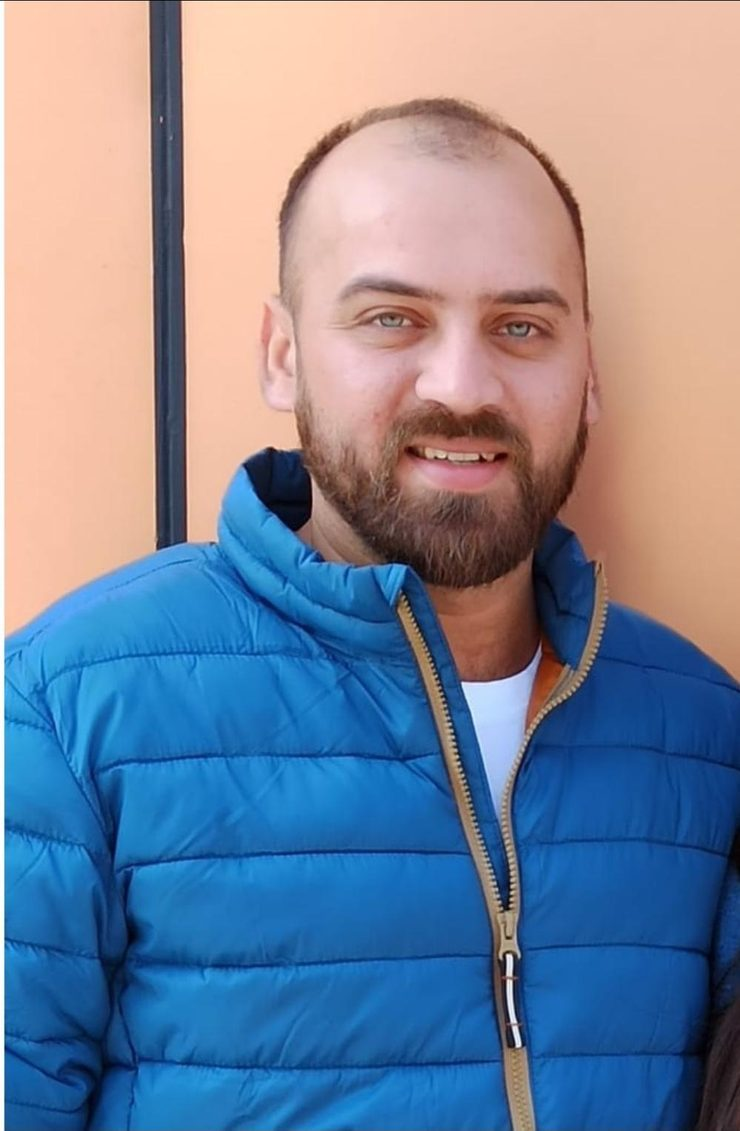
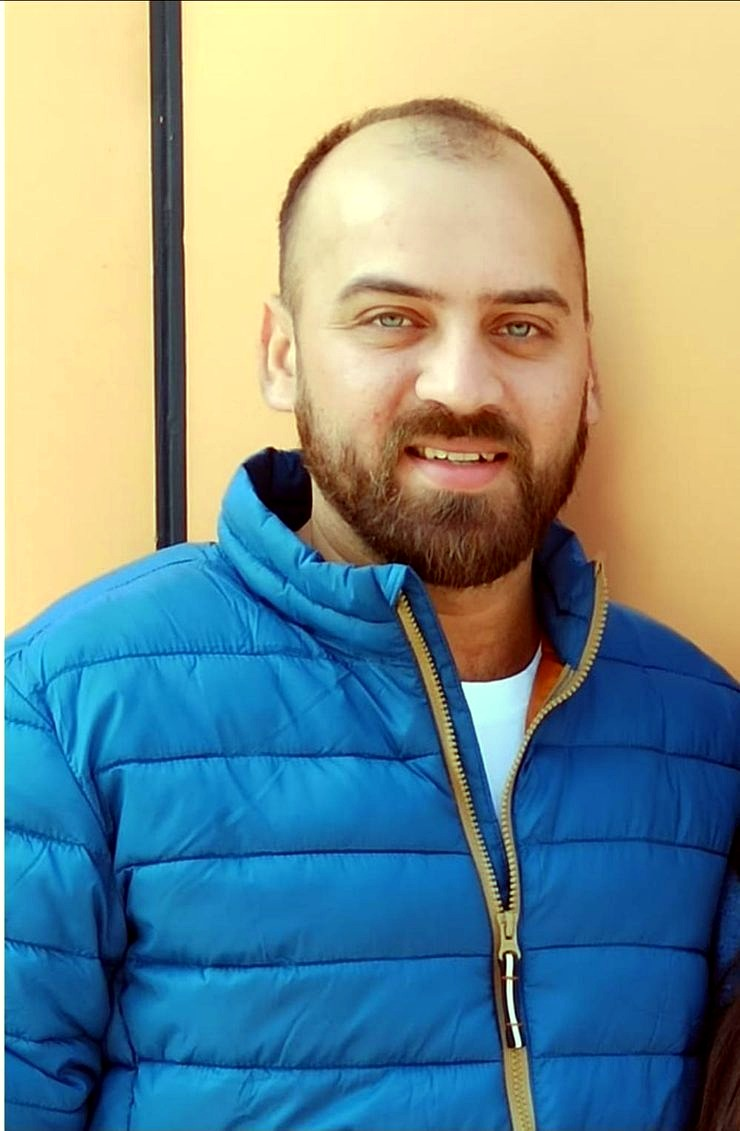
Client fixes: 'selected works' count label (honest, no invented 900+); graded team photos (Kishan bg replaced w/ studio backdrop, Vipul color grade)

diff --git a/src/pages/ProjectsPage.tsx b/src/pages/ProjectsPage.tsx
@@ -164,7 +164,7 @@ export function ProjectsPage({ initialCategory }: ProjectsPageProps) {
               Filter by Typology
             </span>
             <span className="text-xs text-stone-500 font-sans">
-              Showing {filteredProjects.length} of {allProjects.length} projects
+              Showing {filteredProjects.length} of {allProjects.length} selected works
             </span>
           </div>
 
